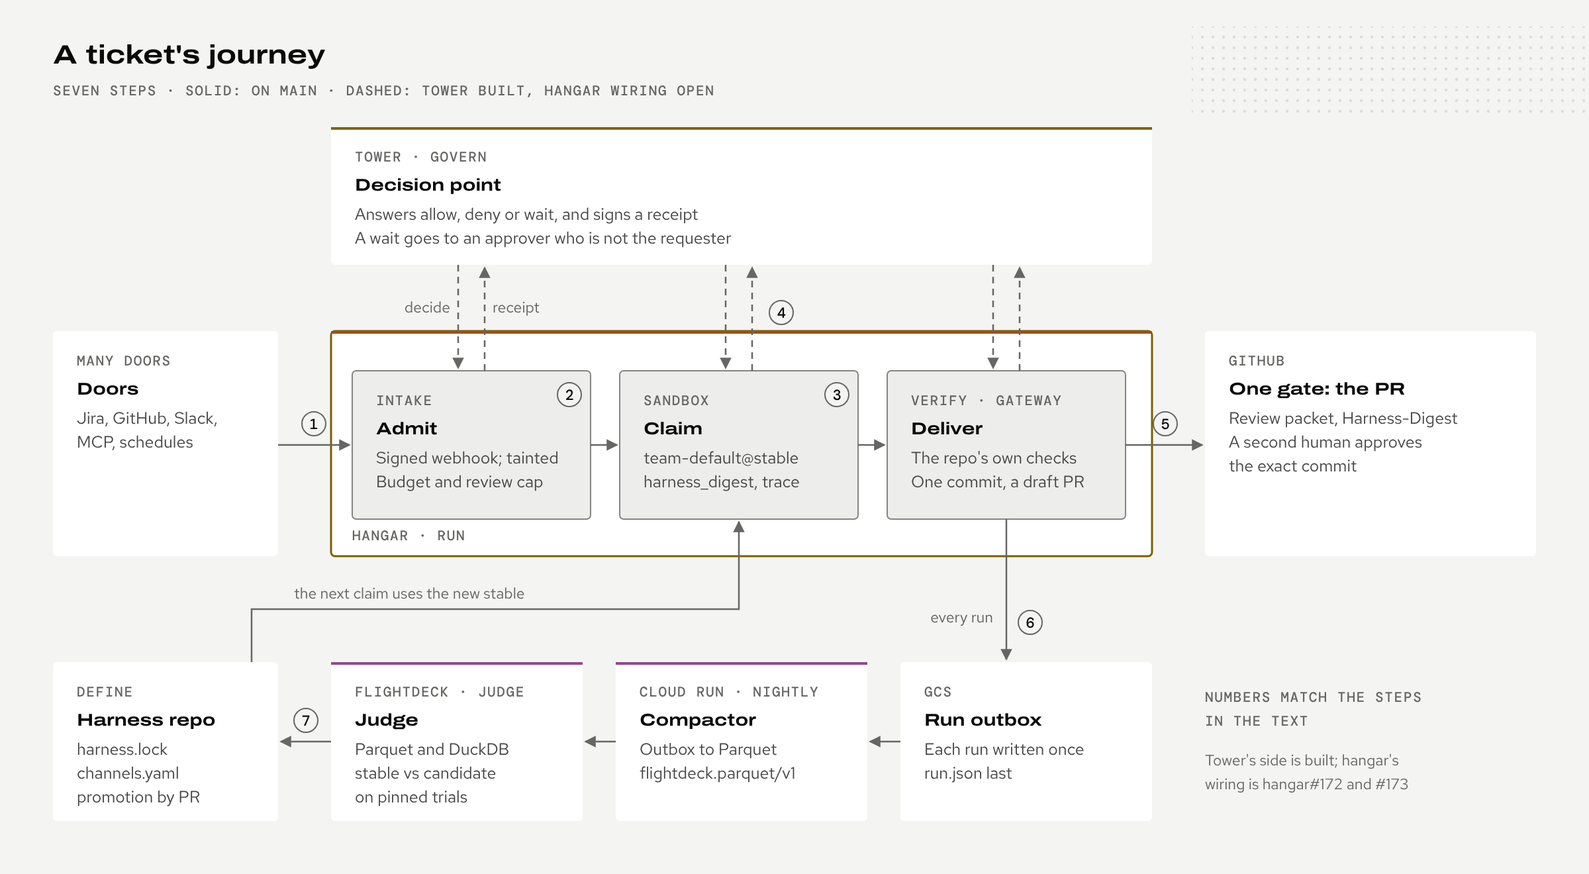
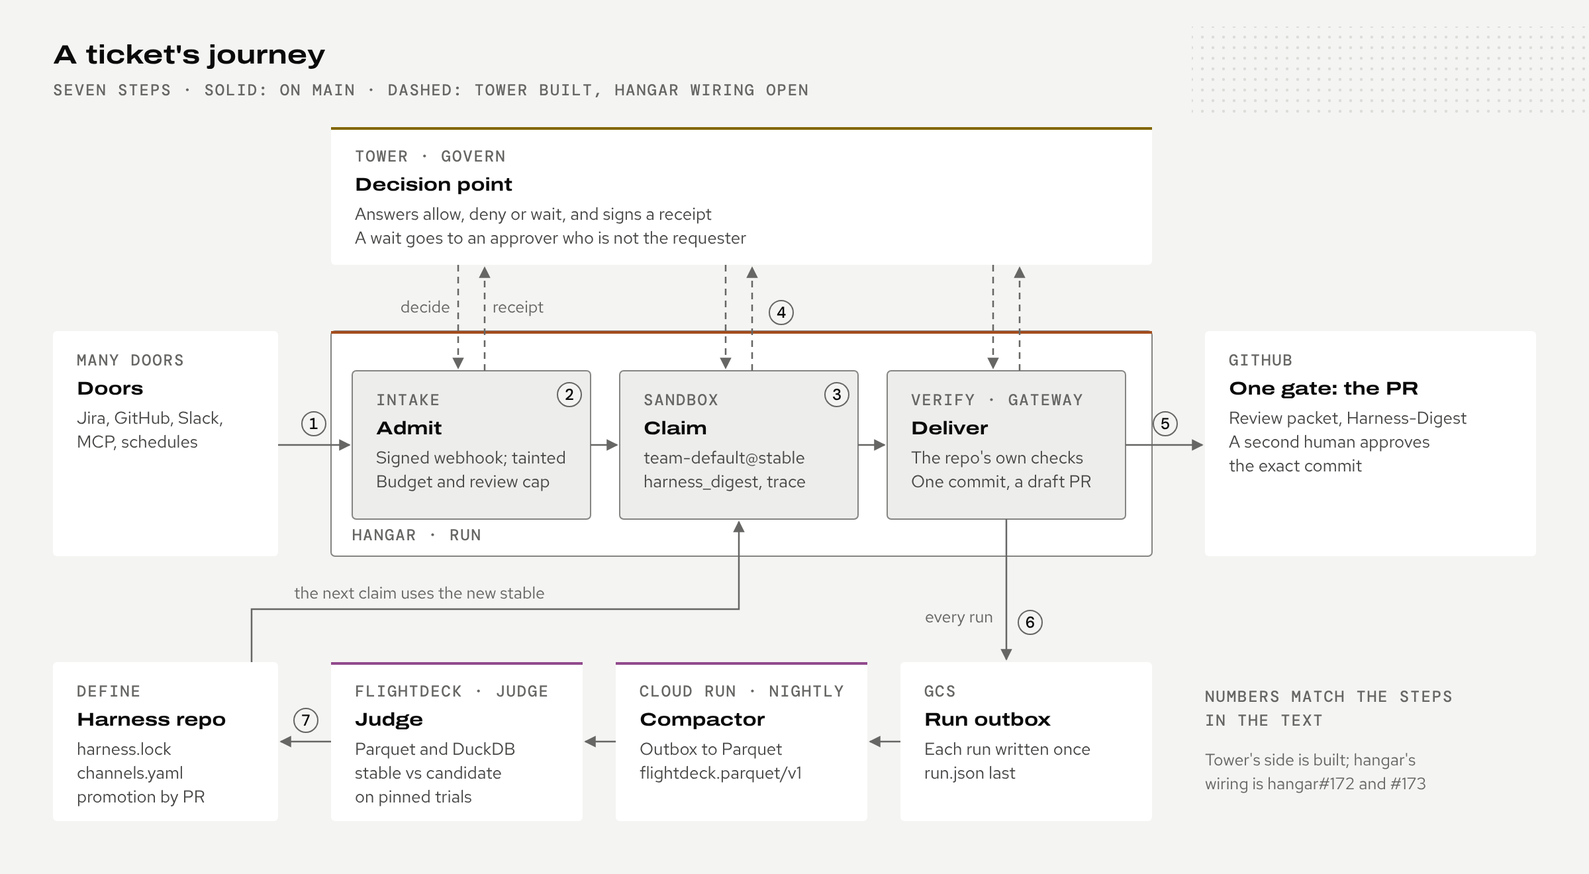
fix(diagrams): legible at the size they are shown
scripts/diagrams.py: a 12px floor on every source font size (FLOOR,
enforced by check_floor when the SVGs are written); labels, eyebrows,
edge labels and step numbers move up to 12-14px, names to 14-16px.
The containers drawing goes from 16 boxes to 12: one Storage box for
checkpoints, the outbox and the data plane; Nightly checks and Images
are gone; the flightdeck edge no longer crosses the Compactor.
Every box carries the same 2px product rule; the centre of a drawing
(box-hub) is a 1px line-strong edge, not the brand yellow, which read
as a status.

Docs: Architecture shows the level-1 view at page width (hide
navigation and toc); the containers diagram and table are their own
full-width page, architecture/containers.md, in the nav. How it fits
shows the deck's planes drawing (slide-planes.svg) at page width and
links the numbered journey at full size; the stacked journey stays
for phones. PNGs re-rendered; deck/index.html picks up the new SVG.

Claude-Session: https://claude.ai/code/session_01BSFunzHzapAtRqB8bzGrFz

diff --git a/deck/index.html b/deck/index.html
@@ -410,21 +410,21 @@ p { margin: 0; }
 <style>
   .af-d .bg { fill: var(--af-canvas, #000000); }
   .af-d .box { fill: var(--af-raised, #141414); }
-  .af-d .box-hub { fill: var(--af-raised, #141414); stroke: var(--af-brand-line, #FFC400); stroke-width: 1.5; }
+  .af-d .box-hub { fill: var(--af-raised, #141414); stroke: var(--af-line-strong, #6B6B6B); stroke-width: 1; }
   .af-d .box-plan { fill: none; stroke: var(--af-line-strong, #6B6B6B); stroke-width: 1; stroke-dasharray: 4 4; }
   .af-d .box-ext { fill: var(--af-surface, #0A0A0A); stroke: var(--af-line-strong, #6B6B6B); stroke-width: 1; }
   .af-d .person { fill: var(--af-surface, #0A0A0A); stroke: var(--af-fg-subtle, #8A8A8A); stroke-width: 1; }
   .af-d .bound { fill: none; stroke: var(--af-rule, #424242); stroke-width: 1; stroke-dasharray: 2 5; }
   .af-d .bound-fill { fill: var(--af-surface, #0A0A0A); }
-  .af-d .name { font: 700 15px "Archivo", "Helvetica Neue", Arial, sans-serif; font-stretch: 125%; fill: var(--af-fg, #FFFFFF); }
-  .af-d .name-s { font: 700 13px "Archivo", "Helvetica Neue", Arial, sans-serif; font-stretch: 125%; fill: var(--af-fg, #FFFFFF); }
+  .af-d .name { font: 700 16px "Archivo", "Helvetica Neue", Arial, sans-serif; font-stretch: 125%; fill: var(--af-fg, #FFFFFF); }
+  .af-d .name-s { font: 700 14px "Archivo", "Helvetica Neue", Arial, sans-serif; font-stretch: 125%; fill: var(--af-fg, #FFFFFF); }
   .af-d .title { font: 700 20px "Archivo", "Helvetica Neue", Arial, sans-serif; font-stretch: 125%; fill: var(--af-fg, #FFFFFF); }
-  .af-d .body { font: 400 12.5px "Red Hat Text", "Helvetica Neue", Arial, sans-serif; fill: var(--af-fg-muted, #A6A6A6); }
-  .af-d .lbl { font: 500 10.5px "DM Mono", ui-monospace, Menlo, monospace; letter-spacing: .08em; fill: var(--af-fg-subtle, #8A8A8A); }
-  .af-d .lbl-hi { font: 500 10.5px "DM Mono", ui-monospace, Menlo, monospace; letter-spacing: .08em; fill: var(--af-brand-text, #FFC400); }
+  .af-d .body { font: 400 13px "Red Hat Text", "Helvetica Neue", Arial, sans-serif; fill: var(--af-fg-muted, #A6A6A6); }
+  .af-d .lbl { font: 500 12px "DM Mono", ui-monospace, Menlo, monospace; letter-spacing: .08em; fill: var(--af-fg-subtle, #8A8A8A); }
+  .af-d .lbl-hi { font: 500 12px "DM Mono", ui-monospace, Menlo, monospace; letter-spacing: .08em; fill: var(--af-brand-text, #FFC400); }
   .af-d .edge { fill: none; stroke: var(--af-fg-subtle, #8A8A8A); stroke-width: 1.25; }
   .af-d .edge-plan { fill: none; stroke: var(--af-fg-subtle, #8A8A8A); stroke-width: 1.25; stroke-dasharray: 5 4; }
-  .af-d .elabel { font: 400 11.5px "Red Hat Text", "Helvetica Neue", Arial, sans-serif; fill: var(--af-fg-subtle, #8A8A8A); }
+  .af-d .elabel { font: 400 12.5px "Red Hat Text", "Helvetica Neue", Arial, sans-serif; fill: var(--af-fg-subtle, #8A8A8A); }
   .af-d .arrowhead { fill: var(--af-fg-subtle, #8A8A8A); }
   .af-d .dot { fill: var(--af-dot-field, #262626); }
 </style>
@@ -500,21 +500,21 @@ p { margin: 0; }
 <style>
   .af-d .bg { fill: var(--af-canvas, #000000); }
   .af-d .box { fill: var(--af-raised, #141414); }
-  .af-d .box-hub { fill: var(--af-raised, #141414); stroke: var(--af-brand-line, #FFC400); stroke-width: 1.5; }
+  .af-d .box-hub { fill: var(--af-raised, #141414); stroke: var(--af-line-strong, #6B6B6B); stroke-width: 1; }
   .af-d .box-plan { fill: none; stroke: var(--af-line-strong, #6B6B6B); stroke-width: 1; stroke-dasharray: 4 4; }
   .af-d .box-ext { fill: var(--af-surface, #0A0A0A); stroke: var(--af-line-strong, #6B6B6B); stroke-width: 1; }
   .af-d .person { fill: var(--af-surface, #0A0A0A); stroke: var(--af-fg-subtle, #8A8A8A); stroke-width: 1; }
   .af-d .bound { fill: none; stroke: var(--af-rule, #424242); stroke-width: 1; stroke-dasharray: 2 5; }
   .af-d .bound-fill { fill: var(--af-surface, #0A0A0A); }
-  .af-d .name { font: 700 15px "Archivo", "Helvetica Neue", Arial, sans-serif; font-stretch: 125%; fill: var(--af-fg, #FFFFFF); }
-  .af-d .name-s { font: 700 13px "Archivo", "Helvetica Neue", Arial, sans-serif; font-stretch: 125%; fill: var(--af-fg, #FFFFFF); }
+  .af-d .name { font: 700 16px "Archivo", "Helvetica Neue", Arial, sans-serif; font-stretch: 125%; fill: var(--af-fg, #FFFFFF); }
+  .af-d .name-s { font: 700 14px "Archivo", "Helvetica Neue", Arial, sans-serif; font-stretch: 125%; fill: var(--af-fg, #FFFFFF); }
   .af-d .title { font: 700 20px "Archivo", "Helvetica Neue", Arial, sans-serif; font-stretch: 125%; fill: var(--af-fg, #FFFFFF); }
-  .af-d .body { font: 400 12.5px "Red Hat Text", "Helvetica Neue", Arial, sans-serif; fill: var(--af-fg-muted, #A6A6A6); }
-  .af-d .lbl { font: 500 10.5px "DM Mono", ui-monospace, Menlo, monospace; letter-spacing: .08em; fill: var(--af-fg-subtle, #8A8A8A); }
-  .af-d .lbl-hi { font: 500 10.5px "DM Mono", ui-monospace, Menlo, monospace; letter-spacing: .08em; fill: var(--af-brand-text, #FFC400); }
+  .af-d .body { font: 400 13px "Red Hat Text", "Helvetica Neue", Arial, sans-serif; fill: var(--af-fg-muted, #A6A6A6); }
+  .af-d .lbl { font: 500 12px "DM Mono", ui-monospace, Menlo, monospace; letter-spacing: .08em; fill: var(--af-fg-subtle, #8A8A8A); }
+  .af-d .lbl-hi { font: 500 12px "DM Mono", ui-monospace, Menlo, monospace; letter-spacing: .08em; fill: var(--af-brand-text, #FFC400); }
   .af-d .edge { fill: none; stroke: var(--af-fg-subtle, #8A8A8A); stroke-width: 1.25; }
   .af-d .edge-plan { fill: none; stroke: var(--af-fg-subtle, #8A8A8A); stroke-width: 1.25; stroke-dasharray: 5 4; }
-  .af-d .elabel { font: 400 11.5px "Red Hat Text", "Helvetica Neue", Arial, sans-serif; fill: var(--af-fg-subtle, #8A8A8A); }
+  .af-d .elabel { font: 400 12.5px "Red Hat Text", "Helvetica Neue", Arial, sans-serif; fill: var(--af-fg-subtle, #8A8A8A); }
   .af-d .arrowhead { fill: var(--af-fg-subtle, #8A8A8A); }
   .af-d .dot { fill: var(--af-dot-field, #262626); }
 </style>

diff --git a/scripts/diagrams.py b/scripts/diagrams.py
@@ -17,31 +17,37 @@ ROOT = Path(__file__).resolve().parent.parent
 OUT = ROOT / "docs" / "assets" / "diagrams"
 # The dark fallbacks come from the Airframe build, so a stand-alone SVG matches the current Night theme.
 NIGHT = json.loads((ROOT / "theme" / "airframe-tokens.json").read_text())["themes"]["dark"]
+# The docs show a 1200-wide drawing in a 1188px column at best and a 938px one beside a sidebar, so the
+# smallest source size is 12px: nothing drops below about 9.4px on screen. `check_floor` enforces it.
+FLOOR = 12
 
 
 def with_fallbacks(svg_text: str) -> str:
     """Rewrite every var(--af-<token>, <fallback>) so the fallback is that token's Night value."""
     return re.sub(r"var\(--af-([a-z0-9-]+), [^)]+\)", lambda m: f"var(--af-{m.group(1)}, {NIGHT[m.group(1)]})", svg_text)
 
+# Every box carries the same 2px product rule along its top; the centre of a drawing (box-hub) is marked
+# by size, position and a 1px line-strong edge, never by the brand yellow or a product hue around it: a
+# colored outline reads as a status (see airframe/guide/Status.md).
 STYLE = """
 <style>
   .af-d .bg { fill: var(--af-canvas, #000); }
   .af-d .box { fill: var(--af-raised, #141414); }
-  .af-d .box-hub { fill: var(--af-raised, #141414); stroke: var(--af-brand-line, #FFC400); stroke-width: 1.5; }
+  .af-d .box-hub { fill: var(--af-raised, #141414); stroke: var(--af-line-strong, #6B6B6B); stroke-width: 1; }
   .af-d .box-plan { fill: none; stroke: var(--af-line-strong, #6B6B6B); stroke-width: 1; stroke-dasharray: 4 4; }
   .af-d .box-ext { fill: var(--af-surface, #0A0A0A); stroke: var(--af-line-strong, #6B6B6B); stroke-width: 1; }
   .af-d .person { fill: var(--af-surface, #0A0A0A); stroke: var(--af-fg-subtle, #8A8A8A); stroke-width: 1; }
   .af-d .bound { fill: none; stroke: var(--af-rule, #3A3A3A); stroke-width: 1; stroke-dasharray: 2 5; }
   .af-d .bound-fill { fill: var(--af-surface, #0A0A0A); }
-  .af-d .name { font: 700 15px "Archivo", "Helvetica Neue", Arial, sans-serif; font-stretch: 125%; fill: var(--af-fg, #fff); }
-  .af-d .name-s { font: 700 13px "Archivo", "Helvetica Neue", Arial, sans-serif; font-stretch: 125%; fill: var(--af-fg, #fff); }
+  .af-d .name { font: 700 16px "Archivo", "Helvetica Neue", Arial, sans-serif; font-stretch: 125%; fill: var(--af-fg, #fff); }
+  .af-d .name-s { font: 700 14px "Archivo", "Helvetica Neue", Arial, sans-serif; font-stretch: 125%; fill: var(--af-fg, #fff); }
   .af-d .title { font: 700 20px "Archivo", "Helvetica Neue", Arial, sans-serif; font-stretch: 125%; fill: var(--af-fg, #fff); }
-  .af-d .body { font: 400 12.5px "Red Hat Text", "Helvetica Neue", Arial, sans-serif; fill: var(--af-fg-muted, #A6A6A6); }
-  .af-d .lbl { font: 500 10.5px "DM Mono", ui-monospace, Menlo, monospace; letter-spacing: .08em; fill: var(--af-fg-subtle, #8A8A8A); }
-  .af-d .lbl-hi { font: 500 10.5px "DM Mono", ui-monospace, Menlo, monospace; letter-spacing: .08em; fill: var(--af-brand-text, #FFC400); }
+  .af-d .body { font: 400 13px "Red Hat Text", "Helvetica Neue", Arial, sans-serif; fill: var(--af-fg-muted, #A6A6A6); }
+  .af-d .lbl { font: 500 12px "DM Mono", ui-monospace, Menlo, monospace; letter-spacing: .08em; fill: var(--af-fg-subtle, #8A8A8A); }
+  .af-d .lbl-hi { font: 500 12px "DM Mono", ui-monospace, Menlo, monospace; letter-spacing: .08em; fill: var(--af-brand-text, #FFC400); }
   .af-d .edge { fill: none; stroke: var(--af-fg-subtle, #8A8A8A); stroke-width: 1.25; }
   .af-d .edge-plan { fill: none; stroke: var(--af-fg-subtle, #8A8A8A); stroke-width: 1.25; stroke-dasharray: 5 4; }
-  .af-d .elabel { font: 400 11.5px "Red Hat Text", "Helvetica Neue", Arial, sans-serif; fill: var(--af-fg-subtle, #8A8A8A); }
+  .af-d .elabel { font: 400 12.5px "Red Hat Text", "Helvetica Neue", Arial, sans-serif; fill: var(--af-fg-subtle, #8A8A8A); }
   .af-d .arrowhead { fill: var(--af-fg-subtle, #8A8A8A); }
   .af-d .dot { fill: var(--af-dot-field, #262626); }
 </style>
@@ -207,19 +213,19 @@ def context() -> str:
 
 
 def containers() -> str:
+    """Twelve containers: the three on an engineer's machine, the cluster, one storage box, the externals."""
     E = dict(kind="box-ext", name_cls="name-s", eyebrow="EXTERNAL")
     b = [
         text(40, 48, "Containers and where they run", "title"),
         text(40, 72, "C4 LEVEL 2  ·  SOLID: ON MAIN  ·  DASHED: PLANNED OR NOT YET WIRED", "lbl"),
         # engineer machine
-        '<rect class="bound" x="30" y="100" width="240" height="600" rx="4"/>',
+        '<rect class="bound" x="30" y="100" width="240" height="460" rx="4"/>',
         text(46, 124, "ENGINEER MACHINE AND CI", "lbl"),
         box(46, 150, 208, 104, "Agent client", ["Claude Code or Codex", "with the hangar MCP"], eyebrow="CLI · MCP", name_cls="name-s"),
         box(46, 290, 208, 104, "ai-dlc", ["Machine setup, local work", "lifecycle, workflow plugin"], eyebrow="PYTHON CLI", product="aidlc", name_cls="name-s"),
         box(46, 430, 208, 104, "flightdeck", ["Ingest, statistics, specs,", "reports, experiments"], eyebrow="PYTHON CLI · DUCKDB", product="flightdeck", name_cls="name-s"),
-        box(46, 570, 208, 104, "Nightly checks", ["GitHub Actions: canary", "and flightdeck checks"], eyebrow="CI", kind="box-plan", name_cls="name-s"),
         # google cloud
-        '<rect class="bound" x="330" y="100" width="560" height="846" rx="4"/>',
+        '<rect class="bound" x="330" y="100" width="560" height="850" rx="4"/>',
         text(346, 124, "GOOGLE CLOUD PROJECT", "lbl"),
         '<rect class="bound" x="346" y="140" width="528" height="500" rx="4"/>',
         text(362, 164, "GKE CLUSTER", "lbl"),
@@ -230,16 +236,16 @@ def containers() -> str:
         box(650, 180, 208, 124, "Tower", ["Decision point, approvals,", "receipts, passports"],
             eyebrow="ON MAIN · NOT DEPLOYED", product="tower", name_cls="name-s"),
         box(650, 340, 208, 104, "Gateway and egress", ["Git gateway :8788", "Egress proxy :3128"],
-            eyebrow="IN THE CONTROL PLANE POD", product="hangar", name_cls="name-s"),
+            eyebrow="CONTROL PLANE POD", product="hangar", name_cls="name-s"),
         box(362, 500, 496, 112, "Agent sandboxes", ["Claude Code, Codex, pi, Antigravity · gVisor on Spot nodes, 0 to N",
                                                     "Pools off 01:00–10:00 ET · optional Kata heavy tier for Docker"],
             eyebrow="AGENT SANDBOX ADD-ON", product="hangar", name_cls="name-s"),
-        box(346, 670, 168, 108, "Checkpoints", ["Session state that", "outlives the disk"], eyebrow="GCS", name_cls="name-s"),
-        box(530, 670, 168, 108, "Run outbox", ["hangar.run/v1,", "written once"], eyebrow="GCS · OFF IN DEPLOY", name_cls="name-s"),
-        box(714, 670, 160, 108, "Data plane", ["Parquet tables,", "one folder a day"], eyebrow="GCS", name_cls="name-s"),
-        box(346, 806, 168, 116, "Images", ["Environment images", "and harness packs"], eyebrow="ARTIFACT REGISTRY", name_cls="name-s"),
-        box(530, 806, 344, 116, "Compactor", ["Flattens new runs into Parquet each", "night, while the sandbox pools are off"],
-            eyebrow="CLOUD RUN JOB · NOT DEPLOYED", product="flightdeck", name_cls="name-s"),
+        box(346, 670, 528, 124, "Storage", ["Checkpoints: session state that outlives the disk",
+                                             "Run outbox: hangar.run/v1, written once · off in the deploy",
+                                             "Data plane: Parquet tables, one folder a day"],
+            eyebrow="CLOUD STORAGE · ARTIFACT REGISTRY FOR IMAGES", name_cls="name-s"),
+        box(346, 826, 528, 104, "Compactor", ["Flattens new runs into Parquet each night, while the sandbox pools are off"],
+            eyebrow="CLOUD RUN JOB · NIGHTLY · NOT DEPLOYED", product="flightdeck", name_cls="name-s"),
         # externals
         box(940, 150, 230, 104, "Jira and Slack", ["Doors in; questions and", "approvals out"], **E),
         box(940, 340, 230, 104, "GitHub", ["Team repos, PRs, the App,", "the team harness repo"], **E),
@@ -248,16 +254,14 @@ def containers() -> str:
         # engineer -> control plane
         edge("M254 222H360"), text(262, 214, "MCP / REST"),
         edge("M254 470H300V300H360"), text(306, 292, "trials"),
-        edge("M254 510H316V962H882V724H876"), text(600, 980, "flightdeck reads Parquet", anchor="middle"),
+        edge("M254 510H316V980H1190V732H876"), text(750, 1000, "flightdeck reads Parquet", anchor="middle"),
         # inside the cluster
         edge("M582 240H648", plan=True), text(616, 232, "decide", anchor="middle"),
         edge("M472 444V498"), text(480, 476, "creates"),
         edge("M754 500V446"), text(762, 478, "git, egress"),
-        # to storage
-        # the outbox and the compactor are on main but off in the GKE deploy until hangar#273
-        edge("M362 420H354V652H430V668"),
-        edge("M430 652H614V668", plan=True),
-        edge("M614 778V804", plan=True), edge("M794 806V780", plan=True),
+        # to storage: checkpoints always; the outbox and the compactor are on main but off in the GKE deploy (hangar#273)
+        edge("M362 420H354V652H430V668"), text(438, 652, "checkpoints, runs"),
+        edge("M520 794V824", plan=True), edge("M700 826V796", plan=True),
         # to externals
         edge("M858 380H938"), text(866, 372, "push"),
         edge("M858 420H916V522H938"),
@@ -266,7 +270,7 @@ def containers() -> str:
         edge("M1170 392H1184V88H472V178"), '<path class="edge" d="M1170 202H1184"/>',
         text(1176, 80, "webhooks from GitHub, Jira and Slack", anchor="end"),
     ]
-    return svg(1200, 996, "Containers and where they run", b)
+    return svg(1200, 1020, "Containers and where they run", b)
 
 
 # ---------------------------------------------------------------------------------------------
@@ -275,8 +279,8 @@ def containers() -> str:
 JOURNEY_STYLE = """
 <style>
   .af-d .step { fill: var(--af-canvas, #000); stroke: var(--af-fg-subtle, #8A8A8A); stroke-width: 1; }
-  .af-d .stepn { font: 500 11px "DM Mono", ui-monospace, Menlo, monospace; fill: var(--af-fg, #fff); }
-  .af-d .hub-lbl { font: 500 10.5px "DM Mono", ui-monospace, Menlo, monospace; letter-spacing: .08em; fill: var(--af-fg-subtle, #8A8A8A); }
+  .af-d .stepn { font: 500 12px "DM Mono", ui-monospace, Menlo, monospace; fill: var(--af-fg, #fff); }
+  .af-d .hub-lbl { font: 500 12px "DM Mono", ui-monospace, Menlo, monospace; letter-spacing: .08em; fill: var(--af-fg-subtle, #8A8A8A); }
 </style>
 """
 
@@ -387,12 +391,28 @@ def journey_stacked() -> str:
     return svg(420, end + 72, "A ticket's journey, stacked", b, pid="journey-stacked")
 
 
+FONT_SIZE = re.compile(r"font(?:-size)?:[^;}]*?(\d+(?:\.\d+)?)px")
+
+
+def check_floor(svg_text: str, name: str) -> None:
+    """Every font size a drawing declares is at least FLOOR px at source size."""
+    small = sorted({float(m) for m in FONT_SIZE.findall(svg_text) if float(m) < FLOOR})
+    if small:
+        raise SystemExit(f"diagrams: {name} declares {small} px type; the floor is {FLOOR}px")
+
+
+def write(name: str, fn) -> None:
+    text_ = with_fallbacks(fn())
+    check_floor(text_, name)
+    (OUT / f"{name}.svg").write_text(text_)
+    print("wrote", OUT / f"{name}.svg")
+
+
 def main() -> None:
     OUT.mkdir(parents=True, exist_ok=True)
     for name, fn in (("planes", planes), ("c4-context", context), ("c4-containers", containers),
                      ("journey", journey), ("journey-stacked", journey_stacked)):
-        (OUT / f"{name}.svg").write_text(with_fallbacks(fn()))
-        print("wrote", OUT / f"{name}.svg")
+        write(name, fn)
 
 
 # ---------------------------------------------------------------------------------------------
@@ -467,8 +487,7 @@ def slide_loop() -> str:
 
 def main_slides() -> None:
     for name, fn in (("slide-planes", slide_planes), ("slide-loop", slide_loop)):
-        (OUT / f"{name}.svg").write_text(with_fallbacks(fn()))
-        print("wrote", OUT / f"{name}.svg")
+        write(name, fn)
 
 
 if __name__ == "__main__":

diff --git a/docs/architecture/index.md b/docs/architecture/index.md
@@ -1,6 +1,12 @@
+---
+hide:
+  - navigation
+  - toc
+---
+
 # Architecture
 
-The suite follows the [C4 model](https://c4model.com/): a system context view for who uses it and what it depends on, then a container view for what runs where. [How it fits](../how-it-fits.md) follows one ticket through them. Both diagrams follow the page's light or dark theme; PNGs for slides are in [`docs/assets/diagrams`](https://github.com/Sean-Koval/agent-factory/tree/main/docs/assets/diagrams).
+The suite follows the [C4 model](https://c4model.com/): this page is the system context, who uses the suite and what it depends on; [Containers](containers.md) is what runs where. [How it fits](../how-it-fits.md) follows one ticket through them. Both diagrams follow the page's light or dark theme; PNGs for slides are in [`docs/assets/diagrams`](https://github.com/Sean-Koval/agent-factory/tree/main/docs/assets/diagrams).
 
 ## System context
 
@@ -10,24 +16,6 @@ The suite follows the [C4 model](https://c4model.com/): a system context view fo
 </figure>
 
 Four kinds of people use the suite. **Engineers** hand off work and answer questions. **Reviewers** approve the exact commit that lands. The **harness owner** runs experiments and promotes the team harness. **Approvers** decide risky actions. The suite depends on GitHub for code and review, Jira and Slack as doors, model providers through API keys only, Google Cloud to run on, and MCP servers for the tools agents call.
-
-## Containers
-
-<figure class="af-figure">
---8<-- "c4-containers.svg"
-<figcaption>C4 level 2 · solid: on main · dashed: planned or not yet wired · <a href="../assets/diagrams/c4-containers.svg">full size</a></figcaption>
-</figure>
-
-| Container | Runs on | Owns | Status |
-| --- | --- | --- | --- |
-| hangar control plane | GKE, always on | REST, MCP and web UI; jobs, sessions, intake, landing, inbox; SQLite on a persistent disk | On main |
-| Git gateway and egress proxy | The control-plane pod | Pushes one ref as the GitHub App; the only route from a sandbox to the internet | On main |
-| Agent sandboxes | GKE gVisor pool on Spot nodes, 0 to N; optional Kata heavy tier | Claude Code, Codex, pi and Antigravity sessions; off 01:00–10:00 ET | On main |
-| Tower | Beside the control plane, one instance | Decision point, approvals, receipts, passports | On main: the decision API, events and receipts (Tower#13, #17, #18). Not deployed yet (Tower#28, #52); hangar's wiring is [hangar#172](https://github.com/Sean-Koval/hangar/issues/172) |
-| Run outbox | Cloud Storage | Every finished run written once as `hangar.run/v1` | On main ([hangar#163](https://github.com/Sean-Koval/hangar/issues/163), [PR #214](https://github.com/Sean-Koval/hangar/pull/214)); off in the GKE deploy until [hangar#273](https://github.com/Sean-Koval/hangar/issues/273) |
-| Compactor | Cloud Run job, nightly | Flattens new runs into `flightdeck.parquet/v1` | On main ([flightdeck#5](https://github.com/Sean-Koval/flightdeck/issues/5), `deploy/compactor/`); deployed with [hangar#273](https://github.com/Sean-Koval/hangar/issues/273) |
-| flightdeck | An engineer's machine or CI | Ingest, statistics, behavior specs, reports, experiment submission | On main (v0); the nightly spec runner is [flightdeck#15](https://github.com/Sean-Koval/flightdeck/issues/15) |
-| ai-dlc | An engineer's machine | Machine setup, local work lifecycle, workflow plugin | On main |
 
 ## The planes
 

diff --git a/docs/architecture/containers.md b/docs/architecture/containers.md
@@ -1,0 +1,25 @@
+---
+hide:
+  - navigation
+  - toc
+---
+
+# Containers
+
+C4 level 2: what runs on an engineer's machine, in the Google Cloud project and outside it, and which seams are on main. [Architecture](index.md) has the system context above this view; [Contracts](contracts.md) indexes the files and APIs the containers meet at.
+
+<figure class="af-figure">
+--8<-- "c4-containers.svg"
+<figcaption>C4 level 2 · solid: on main · dashed: planned or not yet wired · <a href="../../assets/diagrams/c4-containers.svg">full size</a></figcaption>
+</figure>
+
+| Container | Runs on | Owns | Status |
+| --- | --- | --- | --- |
+| hangar control plane | GKE, always on | REST, MCP and web UI; jobs, sessions, intake, landing, inbox; SQLite on a persistent disk | On main |
+| Git gateway and egress proxy | The control-plane pod | Pushes one ref as the GitHub App; the only route from a sandbox to the internet | On main |
+| Agent sandboxes | GKE gVisor pool on Spot nodes, 0 to N; optional Kata heavy tier | Claude Code, Codex, pi and Antigravity sessions; off 01:00–10:00 ET | On main |
+| Tower | Beside the control plane, one instance | Decision point, approvals, receipts, passports | On main: the decision API, events and receipts (Tower#13, #17, #18). Not deployed yet (Tower#28, #52); hangar's wiring is [hangar#172](https://github.com/Sean-Koval/hangar/issues/172) |
+| Run outbox | Cloud Storage | Every finished run written once as `hangar.run/v1` | On main ([hangar#163](https://github.com/Sean-Koval/hangar/issues/163), [PR #214](https://github.com/Sean-Koval/hangar/pull/214)); off in the GKE deploy until [hangar#273](https://github.com/Sean-Koval/hangar/issues/273) |
+| Compactor | Cloud Run job, nightly | Flattens new runs into `flightdeck.parquet/v1` | On main ([flightdeck#5](https://github.com/Sean-Koval/flightdeck/issues/5), `deploy/compactor/`); deployed with [hangar#273](https://github.com/Sean-Koval/hangar/issues/273) |
+| flightdeck | An engineer's machine or CI | Ingest, statistics, behavior specs, reports, experiment submission | On main (v0); the nightly spec runner is [flightdeck#15](https://github.com/Sean-Koval/flightdeck/issues/15) |
+| ai-dlc | An engineer's machine | Machine setup, local work lifecycle, workflow plugin | On main |

diff --git a/docs/how-it-fits.md b/docs/how-it-fits.md
@@ -1,5 +1,6 @@
 ---
 hide:
+  - navigation
   - toc
 ---
 
@@ -27,8 +28,8 @@ Agent factory is how a team of six runs about sixty coding-agent sessions withou
 7. When someone changes the harness, flightdeck runs stable against candidate on pinned trials and posts the verdict on the harness PR. A different person moves `stable`, and the next claim in step 3 uses it.
 
 <figure class="af-figure af-journey--wide">
---8<-- "journey.svg"
-<figcaption>The seven steps, numbered as above · <a href="assets/diagrams/journey.svg">full size</a></figcaption>
+--8<-- "slide-planes.svg"
+<figcaption>Four planes, one loop, one gate · <a href="assets/diagrams/journey.svg">the seven steps, numbered, full size</a></figcaption>
 </figure>
 
 <figure class="af-figure af-journey--stacked">
